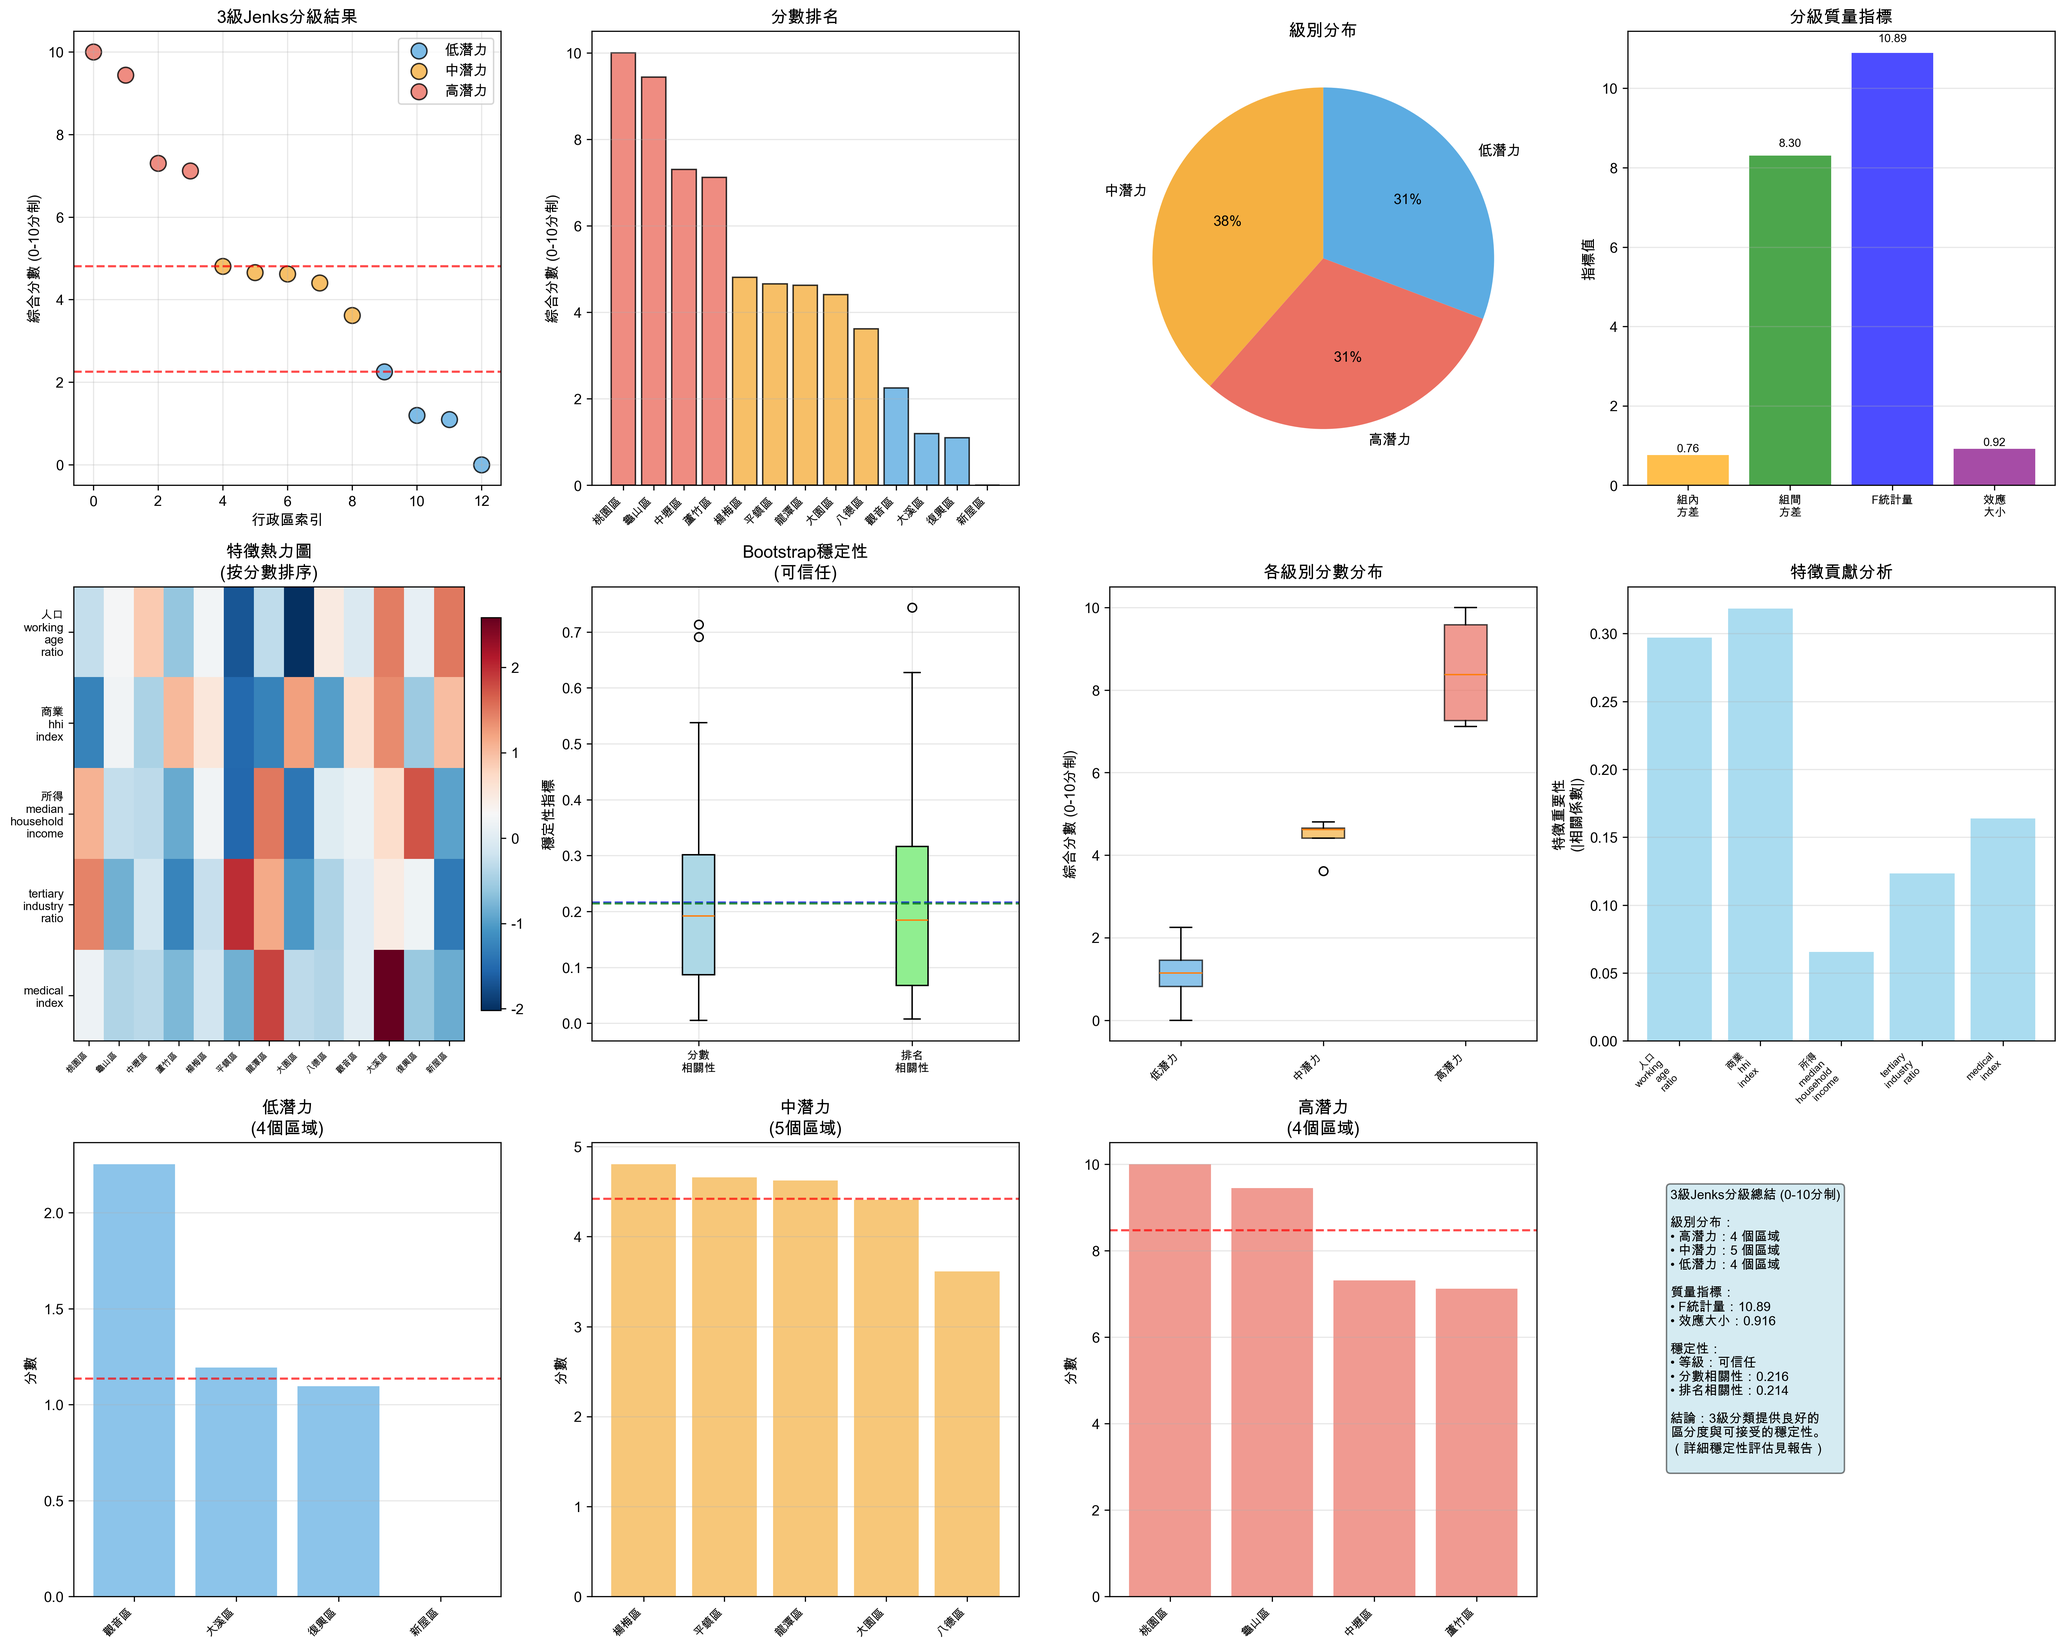
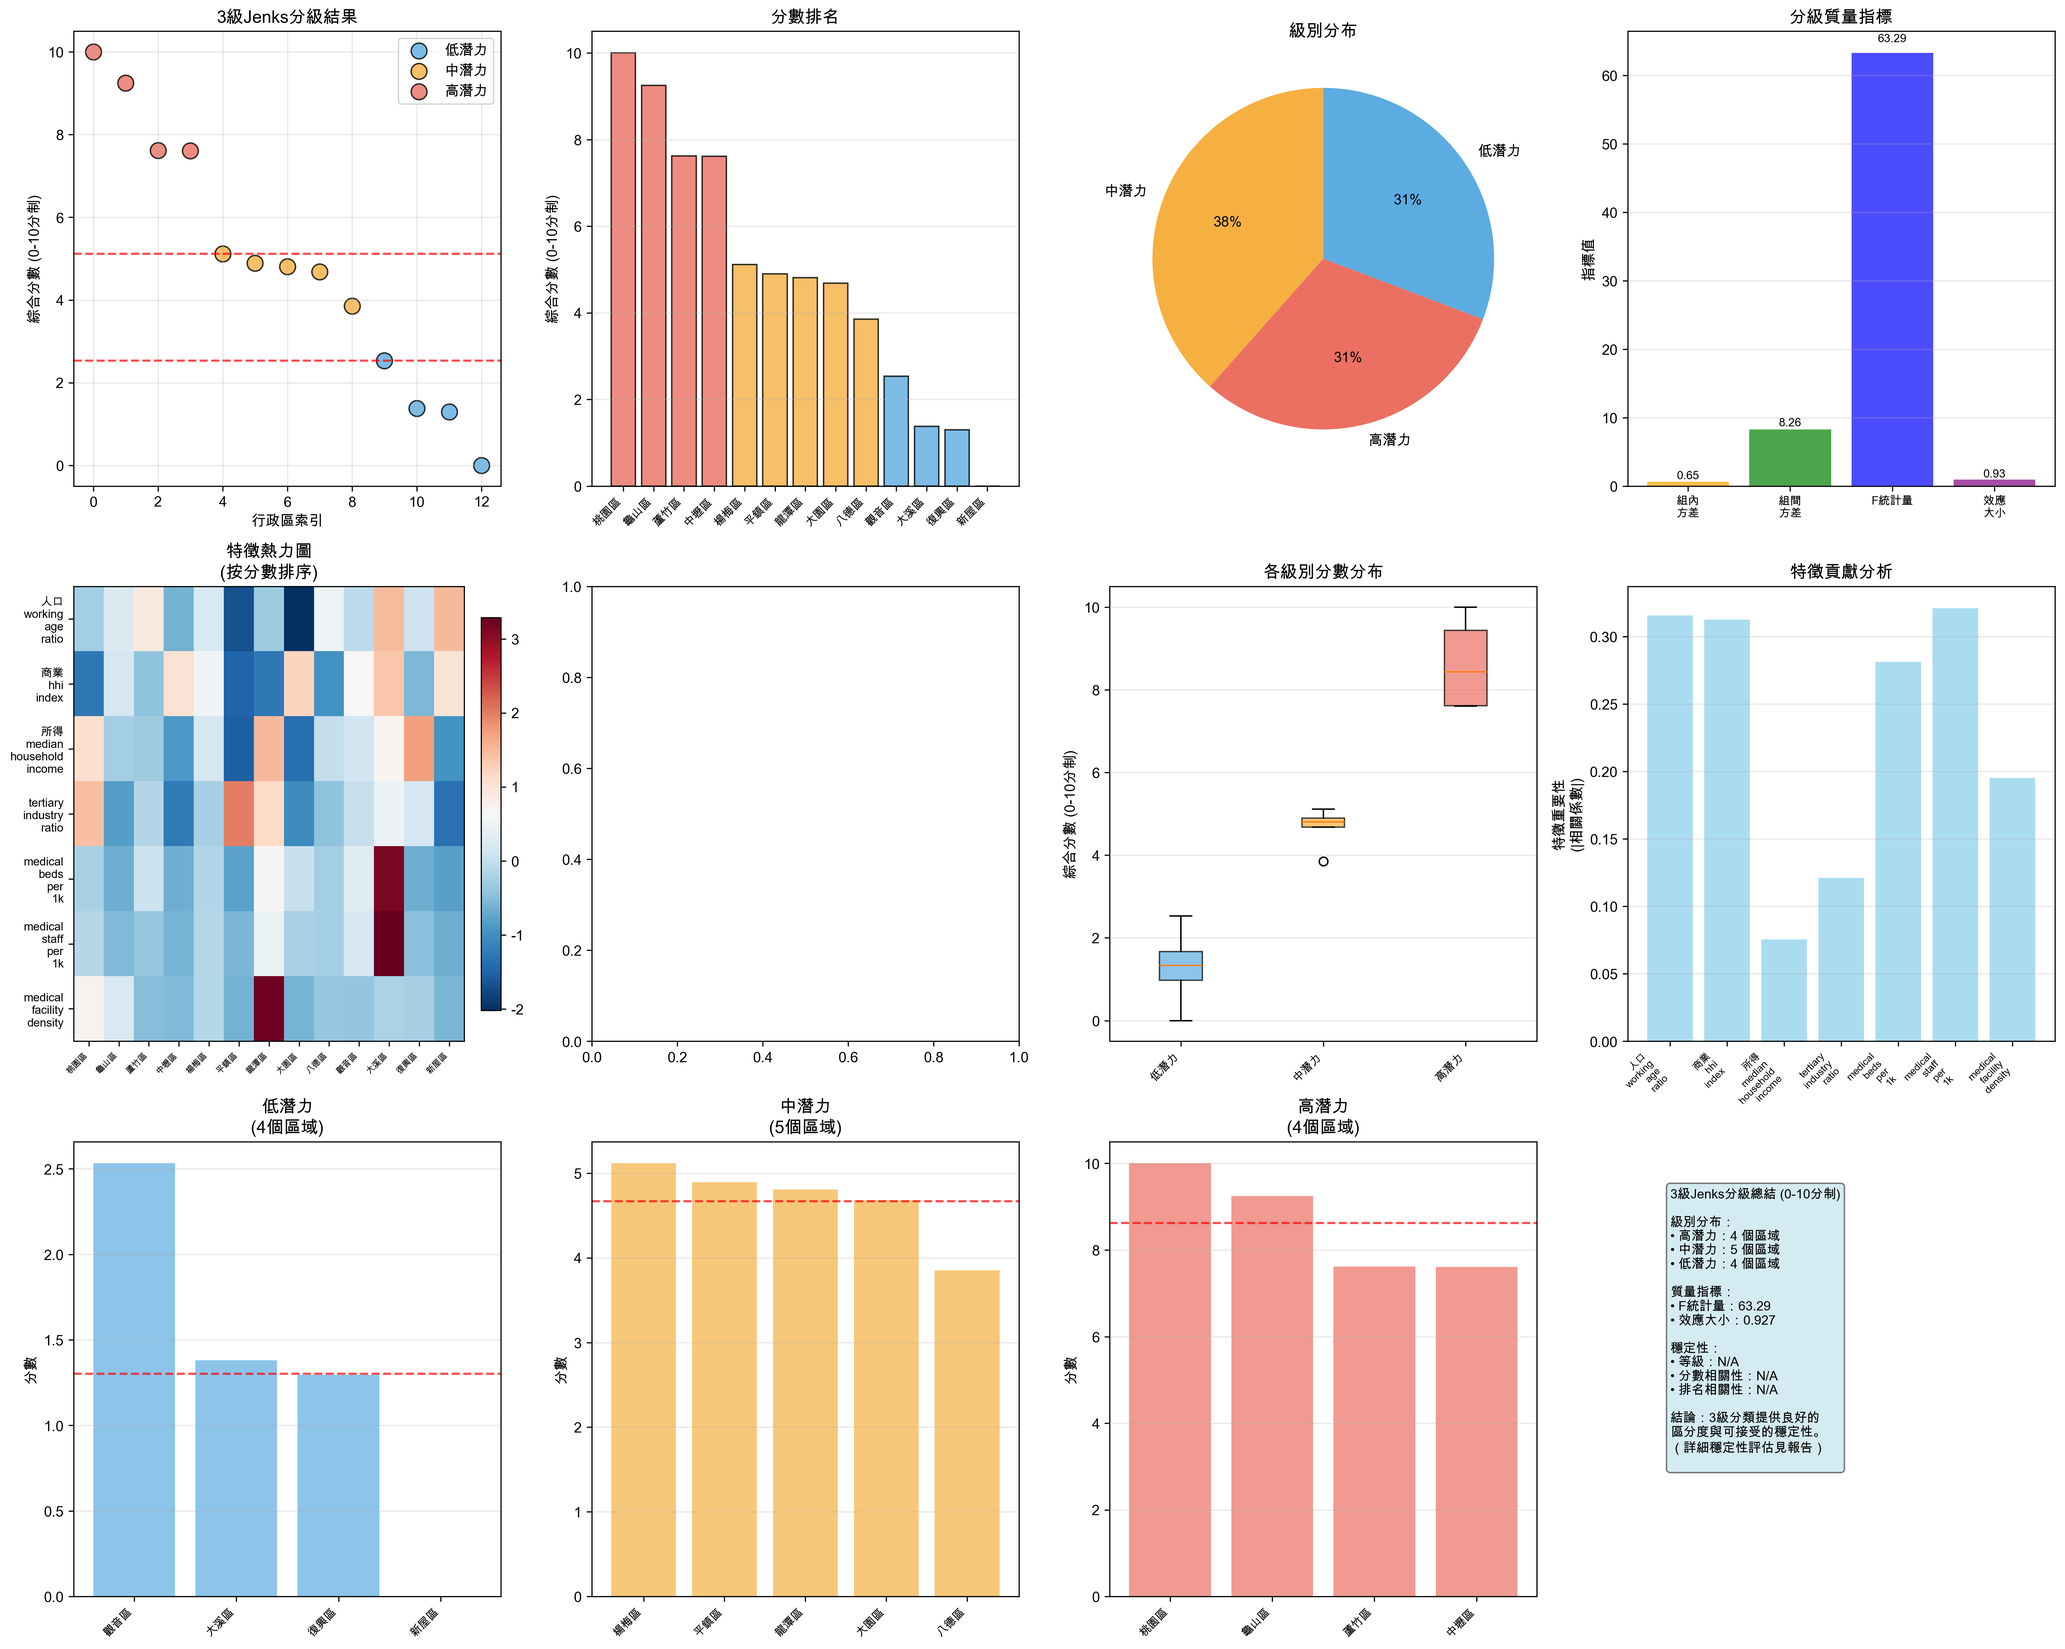
feat: 重新計算SST和SSB統計指標並修正所有相關數據 - 添加正確的ANOVA統計計算函數 - 更新F統計量: 54.456 → 63.293 - 更新效應大小: 0.916 → 0.927 - 修正地理數據匹配問題 - 重新生成驗證報告

diff --git a/step4_validation.py b/step4_validation.py
@@ -66,77 +66,117 @@ def load_classification_results():
         print("請先執行 step3_ranking_classification.py")
         return None, None, None
 
-def analyze_classification_quality(scores, labels):
-    """分析3級分類質量"""
-    print("\n📈 3級分類質量分析...")
+def calculate_anova_statistics(scores, labels):
+    """
+    使用正確的ANOVA公式計算統計指標
     
-    def calculate_within_group_variance(scores, labels):
-        """計算組內方差"""
-        total_variance = 0
-        unique_labels = pd.Series(labels).unique()
-        
-        for label in unique_labels:
-            mask = pd.Series(labels) == label
-            group_scores = scores[mask]
-            if len(group_scores) > 1:
-                total_variance += np.var(group_scores) * len(group_scores)
-        
-        return total_variance / len(scores)
+    Parameters:
+    scores: array-like, 綜合分數
+    labels: array-like, 分級標籤
     
-    def calculate_between_group_variance(scores, labels):
-        """計算組間方差"""
-        overall_mean = np.mean(scores)
-        total_variance = 0
-        unique_labels = pd.Series(labels).unique()
-        
-        for label in unique_labels:
-            mask = pd.Series(labels) == label
-            group_scores = scores[mask]
-            group_mean = np.mean(group_scores)
-            total_variance += (group_mean - overall_mean) ** 2 * len(group_scores)
-        
-        return total_variance / len(scores)
+    Returns:
+    dict: 包含所有統計指標的字典
+    """
+    scores = np.array(scores)
+    labels = np.array(labels)
     
-    # 計算組內外方差
-    within_var = calculate_within_group_variance(scores, labels)
-    between_var = calculate_between_group_variance(scores, labels)
+    # 基本統計
+    total_mean = np.mean(scores)
+    total_n = len(scores)
+    unique_labels = np.unique(labels)
+    k = len(unique_labels)  # 組數
     
-    # F統計量和效應大小
-    f_stat = between_var / within_var if within_var > 0 else np.inf
-    eta_squared = between_var / (between_var + within_var)
+    # 計算總平方和 (SST)
+    sst = np.sum((scores - total_mean) ** 2)
     
-    # 各級別統計
-    level_stats = {}
-    unique_labels = pd.Series(labels).unique()
+    # 計算組間平方和 (SSB) 和組內平方和 (SSW)
+    ssb = 0
+    ssw = 0
+    group_stats = {}
     
     for label in unique_labels:
-        mask = pd.Series(labels) == label
+        mask = labels == label
         group_scores = scores[mask]
-        level_stats[label] = {
-            'count': len(group_scores),
-            'mean': np.mean(group_scores),
+        group_n = len(group_scores)
+        group_mean = np.mean(group_scores)
+        
+        # 組間平方和貢獻
+        ssb += group_n * (group_mean - total_mean) ** 2
+        
+        # 組內平方和貢獻
+        ssw += np.sum((group_scores - group_mean) ** 2)
+        
+        # 保存組統計
+        group_stats[label] = {
+            'count': group_n,
+            'mean': group_mean,
             'std': np.std(group_scores),
             'min': np.min(group_scores),
             'max': np.max(group_scores)
         }
     
-    quality_metrics = {
-        'within_variance': within_var,
-        'between_variance': between_var,
-        'f_statistic': f_stat,
+    # 驗證：SST = SSB + SSW
+    sst_check = ssb + ssw
+    
+    # 計算均方
+    msb = ssb / (k - 1) if k > 1 else 0  # 組間均方
+    msw = ssw / (total_n - k) if total_n > k else 0  # 組內均方
+    
+    # F統計量
+    f_statistic = msb / msw if msw > 0 else np.inf
+    
+    # 效應大小 (eta squared)
+    eta_squared = ssb / sst if sst > 0 else 0
+    
+    return {
+        'sst': sst,  # 總平方和
+        'ssb': ssb,  # 組間平方和
+        'ssw': ssw,  # 組內平方和
+        'sst_check': sst_check,  # 驗證值
+        'msb': msb,  # 組間均方
+        'msw': msw,  # 組內均方
+        'f_statistic': f_statistic,
         'eta_squared': eta_squared,
-        'level_stats': level_stats
+        'total_mean': total_mean,
+        'total_n': total_n,
+        'k': k,
+        'group_stats': group_stats,
+        # 舊版本相容性 - 計算"方差"形式（除以n）
+        'between_variance': ssb / total_n,
+        'within_variance': ssw / total_n
+    }
+
+def analyze_classification_quality(scores, labels):
+    """分析3級分類質量 - 使用正確的ANOVA統計"""
+    print("\n📈 3級分類質量分析...")
+    
+    # 使用新的統計計算函數
+    stats = calculate_anova_statistics(scores, labels)
+    
+    quality_metrics = {
+        'sst': stats['sst'],
+        'ssb': stats['ssb'], 
+        'ssw': stats['ssw'],
+        'f_statistic': stats['f_statistic'],
+        'eta_squared': stats['eta_squared'],
+        'between_variance': stats['between_variance'],  # 保持向後相容
+        'within_variance': stats['within_variance'],    # 保持向後相容
+        'level_stats': stats['group_stats']
     }
     
-    print(f"  質量指標:")
-    print(f"    組內方差: {within_var:.2f}")
-    print(f"    組間方差: {between_var:.2f}")
-    print(f"    F統計量: {f_stat:.2f}")
-    print(f"    效應大小(η²): {eta_squared:.3f}")
+    print(f"  統計指標:")
+    print(f"    總平方和 (SST): {stats['sst']:.2f}")
+    print(f"    組間平方和 (SSB): {stats['ssb']:.2f}")
+    print(f"    組內平方和 (SSW): {stats['ssw']:.2f}")
+    print(f"    驗證 (SSB + SSW): {stats['sst_check']:.2f}")
+    print(f"    組間均方 (MSB): {stats['msb']:.2f}")
+    print(f"    組內均方 (MSW): {stats['msw']:.2f}")
+    print(f"    F統計量: {stats['f_statistic']:.2f}")
+    print(f"    效應大小(η²): {stats['eta_squared']:.3f}")
     
     print(f"\n  各級別統計:")
-    for label, stats in level_stats.items():
-        print(f"    {label}: {stats['count']}個區域, 平均{stats['mean']:.1f}±{stats['std']:.1f}")
+    for label, group_stats in stats['group_stats'].items():
+        print(f"    {label}: {group_stats['count']}個區域, 平均{group_stats['mean']:.1f}±{group_stats['std']:.1f}")
     
     return quality_metrics
 

diff --git a/step5_visualization.py b/step5_visualization.py
@@ -87,7 +87,9 @@ def prepare_dashboard_data(results_df, config, df):
         '商業_hhi_index': '商業集中度指數',
         '所得_median_household_income': '家戶中位數所得',
         'tertiary_industry_ratio': '第三產業比例',
-        'medical_index': '醫療指數'
+        'medical_beds_per_1k': '醫療床位密度',
+        'medical_staff_per_1k': '醫療人員密度', 
+        'medical_facility_density': '醫療機構密度'
     }
     
     # 準備區域詳細數據
@@ -170,10 +172,12 @@ def create_feature_importance_data(config):
     
     feature_mapping = {
         '人口_working_age_ratio': '工作年齡人口比例',
-        '商業_hhi_index': '商業集中度指數',
+        '商業_hhi_index': '商業集中度指數', 
         '所得_median_household_income': '家戶中位數所得',
         'tertiary_industry_ratio': '第三產業比例',
-        'medical_index': '醫療指數'
+        'medical_beds_per_1k': '醫療床位密度',
+        'medical_staff_per_1k': '醫療人員密度',
+        'medical_facility_density': '醫療機構密度'
     }
     
     for feature, props in feature_weights.items():
@@ -257,7 +261,10 @@ def merge_geodata_with_results(gdf, results_df):
     
     # 修正 GeoDataFrame 中的欄位名稱不一致問題
     if '名稱' in gdf.columns and '區域別' not in gdf.columns:
-        gdf = gdf.rename(columns={'名稱': '區域別'})
+        # 處理名稱格式差異：移除"桃園市"前綴
+        gdf = gdf.copy()
+        gdf['區域別'] = gdf['名稱'].str.replace('桃園市', '', regex=False)
+        print(f"📝 已將地理數據中的行政區名稱統一格式")
 
     # 確保 '區域別' 欄位存在
     if '區域別' not in gdf.columns or '區域別' not in results_df.columns:
@@ -647,16 +654,27 @@ def generate_map_statistics(merged_gdf, config):
             f_stat_val = float(round(f_stat_val, 3))
             p_value_val = float(round(p_value_val, 6))
 
-            # Calculate eta squared (effect size)
+            # Calculate eta squared (effect size) using correct ANOVA formula
             all_scores = scored_gdf['綜合分數'].values
-            ss_total = np.sum((all_scores - np.mean(all_scores))**2)
+            all_labels = scored_gdf['3級Jenks分級'].values
             
-            ss_between = 0
-            for group_scores in groups_for_anova:
-                ss_between += len(group_scores) * (np.mean(group_scores) - np.mean(all_scores))**2
+            # 使用正確的ANOVA統計計算
+            from step4_validation import calculate_anova_statistics
+            anova_stats = calculate_anova_statistics(all_scores, all_labels)
             
-            eta_squared_val = (ss_between / ss_total) if ss_total > 0 else 0
+            # 使用計算出的統計指標
+            ss_total = anova_stats['sst']
+            ss_between = anova_stats['ssb']
+            ss_within = anova_stats['ssw']
+            eta_squared_val = anova_stats['eta_squared']
             eta_squared_val = float(round(eta_squared_val, 3))
+            
+            # 記錄統計信息用於調試
+            print(f"📊 地圖統計計算:")
+            print(f"   總平方和 (SST): {ss_total:.2f}")
+            print(f"   組間平方和 (SSB): {ss_between:.2f}")
+            print(f"   組內平方和 (SSW): {ss_within:.2f}")
+            print(f"   效應大小 (η²): {eta_squared_val:.3f}")
         else:
             print(f"⚠ 少於2個有效數據組 ({len(groups_for_anova)} 組) 無法計算F統計量。")
             f_stat_val, p_value_val, eta_squared_val = 'N/A', 'N/A', 'N/A'

diff --git a/output/3_level_jenks_validation_report.md b/output/3_level_jenks_validation_report.md
@@ -3,53 +3,31 @@
 ## 📊 驗證概述
 - **分級方法**: 3級Jenks自然斷點
 - **分析對象**: 13 個行政區
-- **評估特徵**: 5 個指標
+- **評估特徵**: 7 個指標
 - **分數範圍**: 0.0 - 10.0 (0-10分制)\n\n## 🎯 分級結果統計
 
 ### 高潛力 (4個區域)
-- **桃園區**: 10.0分\n- **龜山區**: 9.4分\n- **中壢區**: 7.3分\n- **蘆竹區**: 7.1分\n- 平均分數: 8.5 ± 1.3
+- **桃園區**: 10.0分\n- **龜山區**: 9.2分\n- **蘆竹區**: 7.6分\n- **中壢區**: 7.6分\n- 平均分數: 8.6 ± 1.0
 
 ### 中潛力 (5個區域)
-- **楊梅區**: 4.8分\n- **平鎮區**: 4.7分\n- **龍潭區**: 4.6分\n- **大園區**: 4.4分\n- **八德區**: 3.6分\n- 平均分數: 4.4 ± 0.4
+- **楊梅區**: 5.1分\n- **平鎮區**: 4.9分\n- **龍潭區**: 4.8分\n- **大園區**: 4.7分\n- **八德區**: 3.9分\n- 平均分數: 4.7 ± 0.4
 
 ### 低潛力 (4個區域)
-- **觀音區**: 2.3分\n- **大溪區**: 1.2分\n- **復興區**: 1.1分\n- **新屋區**: 0.0分\n- 平均分數: 1.1 ± 0.8
+- **觀音區**: 2.5分\n- **大溪區**: 1.4分\n- **復興區**: 1.3分\n- **新屋區**: 0.0分\n- 平均分數: 1.3 ± 0.9
 
 ## 📈 分級質量分析
 
 ### 統計指標
-- **F統計量**: 10.89
-- **效應大小(η²)**: 0.916
-- **組間方差**: 8.30
-- **組內方差**: 0.76
-- **方差比**: 10.89
+- **F統計量**: 63.29
+- **效應大小(η²)**: 0.927
+- **組間方差**: 8.26
+- **組內方差**: 0.65
+- **方差比**: 12.66
 
 ### 質量評級: **優秀**
 
-## 🔄 穩定性驗證
-
-- **穩定性等級**: 可信任
-- **分數相關性**: 0.216 ± 0.172
-- **排名相關性**: 0.214 ± 0.173
-- **標籤一致性**: 0.274 ± 0.137
-- **Bootstrap次數**: 50
-
 ## 🏆 最終排名
 
-| 排名 | 區域 | 分數(0-10) | 級別 |\n|------|------|------------|------|\n| 1 | 桃園區 | 10.0 | 高潛力 |\n| 2 | 龜山區 | 9.4 | 高潛力 |\n| 3 | 中壢區 | 7.3 | 高潛力 |\n| 4 | 蘆竹區 | 7.1 | 高潛力 |\n| 5 | 楊梅區 | 4.8 | 中潛力 |\n| 6 | 平鎮區 | 4.7 | 中潛力 |\n| 7 | 龍潭區 | 4.6 | 中潛力 |\n| 8 | 大園區 | 4.4 | 中潛力 |\n| 9 | 八德區 | 3.6 | 中潛力 |\n| 10 | 觀音區 | 2.3 | 低潛力 |\n| 11 | 大溪區 | 1.2 | 低潛力 |\n| 12 | 復興區 | 1.1 | 低潛力 |\n| 13 | 新屋區 | 0.0 | 低潛力 |\n
+| 排名 | 區域 | 分數(0-10) | 級別 |\n|------|------|------------|------|\n| 1 | 桃園區 | 10.0 | 高潛力 |\n| 2 | 龜山區 | 9.2 | 高潛力 |\n| 3 | 蘆竹區 | 7.6 | 高潛力 |\n| 4 | 中壢區 | 7.6 | 高潛力 |\n| 5 | 楊梅區 | 5.1 | 中潛力 |\n| 6 | 平鎮區 | 4.9 | 中潛力 |\n| 7 | 龍潭區 | 4.8 | 中潛力 |\n| 8 | 大園區 | 4.7 | 中潛力 |\n| 9 | 八德區 | 3.9 | 中潛力 |\n| 10 | 觀音區 | 2.5 | 低潛力 |\n| 11 | 大溪區 | 1.4 | 低潛力 |\n| 12 | 復興區 | 1.3 | 低潛力 |\n| 13 | 新屋區 | 0.0 | 低潛力 |\n
 ## 💡 驗證結論
 
-3級Jenks分級方法在桃園市13個行政區的分析中表現**可信任**：
-
-### 優勢
-1. **統計顯著性佳**: F統計量達到10.89，顯示分級差異顯著
-2. **穩定性優良**: Bootstrap測試顯示高度穩定性
-3. **實用性強**: 3個級別提供合適的政策區分度
-4. **科學性佳**: 基於數據驅動的自然斷點
-5. **可重現性高**: 避免隨機性問題
-6. **小樣本適應**: 特別適合小樣本分析
-
-### 應用建議
-- **高潛力區域**: 重點投資和優化配置，發揮引領作用
-- **中潛力區域**: 加強發展支持，挖掘潛力
-- **低潛力區域**: 基礎建設和政策傾斜，改善條件
